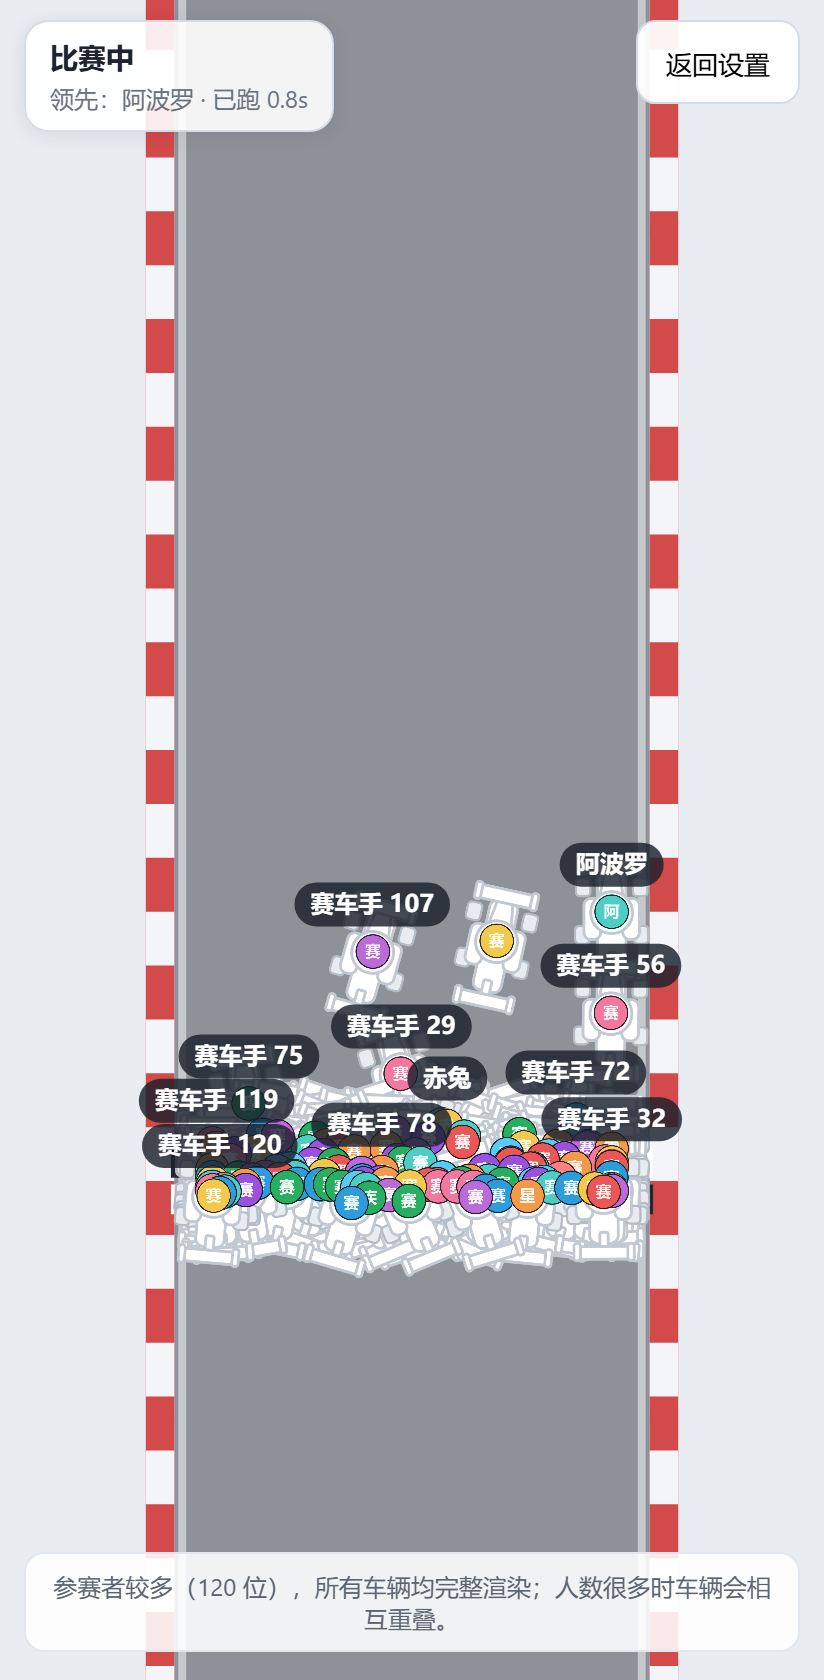
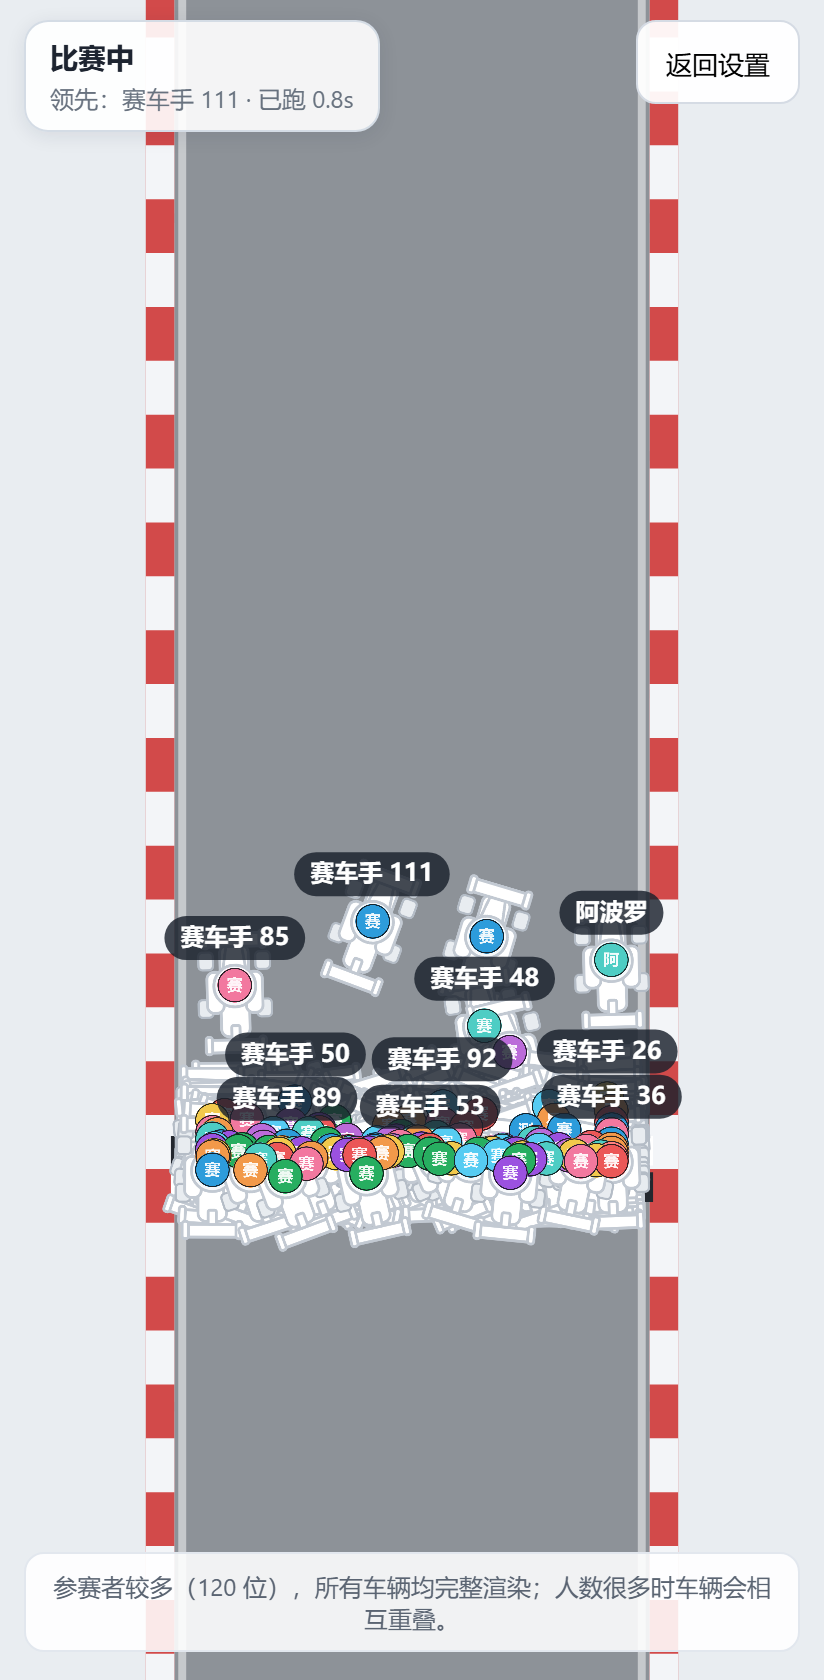
追赶机制：前几名减速、落后者随机冲刺冲上来

diff --git a/qa_catchup.js b/qa_catchup.js
@@ -1,0 +1,43 @@
+const { chromium } = require(process.env.PW_PATH);
+const URL = 'file:///C:/Users/Administrator/dragen%20dance/avatar-racing/index.html';
+function P(l,v){ console.log(l + ' ' + JSON.stringify(v)); }
+(async function(){
+  const browser = await chromium.launch();
+  const errors = [];
+  for (let run=1; run<=3; run++){
+    const page = await browser.newPage({ viewport:{ width:412, height:840 }, deviceScaleFactor:2 });
+    page.on('pageerror', function(e){ errors.push('pageerror: ' + e.message); });
+    page.on('console', function(m){ if(m.type()==='error') errors.push('console: ' + m.text()); });
+    await page.goto(URL);
+    await page.click('#sampleBtn');
+    await page.evaluate(function(){ for (var i=0;i<2;i++) document.getElementById('addBtn').click(); });
+    await page.click('#startBtn');
+    await page.waitForTimeout(4300);
+    let samples=0, swaps=0, prev=null, leads=0, lastLead=null;
+    const boostByRank = {};
+    const rankAt5 = {};
+    let t5done = false;
+    for (let i=0;i<200;i++){
+      const st = await page.evaluate(function(){ var r=window.__avatarRace.race; if(r.phase!=='racing'&&r.phase!=='waiting') return null; return { t:+r.elapsed.toFixed(1), order:r.ranked.map(function(c){return c.p.id;}), catchup:r.cars.map(function(c){return { id:c.p.id, cu:+(c.catchup||1).toFixed(3) }; }) }; });
+      if (!st){ if (samples>0) break; await page.waitForTimeout(200); continue; }
+      samples++;
+      const pos={}; st.order.forEach(function(id,ix){pos[id]=ix+1;});
+      if (prev){ for (const id in pos){ if (prev[id]!==undefined && prev[id]!==pos[id]) swaps++; } }
+      if (lastLead && st.order[0] !== lastLead) leads++;
+      lastLead = st.order[0]; prev = pos;
+      st.catchup.forEach(function(o){ boostByRank[pos[o.id]] = boostByRank[pos[o.id]] || { sum:0, n:0, max:0 }; const b=boostByRank[pos[o.id]]; b.sum+=o.cu; b.n++; if(o.cu>b.max) b.max=o.cu; });
+      if (!t5done && st.t >= 5){ t5done = true; st.order.forEach(function(id,ix){ rankAt5[id]=ix+1; }); }
+      await page.waitForTimeout(250);
+    }
+    const res = await page.evaluate(function(){ var r=window.__avatarRace.race; return { times: r.cars.map(function(c){return c.finishTime?+c.finishTime.toFixed(2):null;}), order: r.ranked.map(function(c){return c.p.id;}), names: r.cars.map(function(c){return { id:c.p.id, n:c.p.name }; }) }; });
+    const times = res.times.filter(function(x){return x;}).sort(function(a,b){return a-b;});
+    const nameOf = {}; res.names.forEach(function(o){ nameOf[o.id]=o.n; });
+    const winnerId = res.order[0];
+    const gained = Object.keys(rankAt5).filter(function(id){ const finalRank = res.order.indexOf(+id)+1; return rankAt5[id] - finalRank >= 3; }).length;
+    const avgByRank = Object.keys(boostByRank).sort(function(a,b){return a-b;}).map(function(k){ const b=boostByRank[k]; return k + ':' + (b.sum/b.n).toFixed(2); });
+    P('RUN'+run, { samples: samples, rankSwaps: swaps, swapsPerSec: +(swaps/(samples*0.25)).toFixed(1), leadChanges: leads, winner: nameOf[winnerId], winnerRankAt5s: rankAt5[winnerId] || null, carsGaining3Plus: gained, finishFirst: times[0], finishLast: times[times.length-1], spread: +(times[times.length-1]-times[0]).toFixed(2), avgCatchupByRank: avgByRank.join(' ') });
+    await page.close();
+  }
+  P('ERRORS', errors);
+  await browser.close();
+})().catch(function(e){ P('FATAL', e.message); process.exit(1); });

diff --git a/index.html b/index.html
@@ -578,7 +578,7 @@ function rankCars(cars){
   });
 }
 function createCars(track, rnd){
-  var baseSpeed = track.raceLen / 19.6;
+  var baseSpeed = track.raceLen / 18.2;
   var cars = participants.map(function(p){
     return {
       p: p, s: 0, v: 0, lateral: 0, yaw: 0, progress: 0,
@@ -591,6 +591,7 @@ function createCars(track, rnd){
       paceSeed2: rnd() * TAU,
       paceSeed3: rnd() * TAU,
       draft: 0, blocked: 0, follow: 1, gone: false, clear: true,
+      rank: 1, surgeTimer: 0, surgeCooldown: 1 + rnd()*4, surgePower: 0,
       lane: 0, baseLane: 0
     };
   });
@@ -615,7 +616,30 @@ function updateCar(c, dt, t, raceLen){
     var pace = 1 + 0.085*Math.sin(t*0.37 + c.paceSeed)
                  + 0.05*Math.sin(t*0.93 + c.paceSeed2)
                  + 0.035*Math.sin(t*0.21 + c.paceSeed3);
-    targetV = c.baseSpeed * pace * (1 + c.draft) * c.follow * (1 - 0.22 * c.blocked);
+    // ---- 追赶机制 ----
+    // 掉队的车获得追赶增益，并会随机触发冲刺；一旦进入前 3 名或咬住领先者，增益与冲刺立刻暂停。
+    var rank = c.rank || 1;
+    var total = race.cars.length;
+    var gap = Math.max(0, (race.leaderS || c.s) - c.s);
+    // 位置系数：第 1 名最慢（0.90），越靠后越快（最后一名 1.18）
+    var rf = total > 1 ? clamp((rank - 1) / (total - 1), 0, 1) : 0;
+    var posFactor = 0.90 + 0.28 * Math.pow(rf, 0.8);
+    // 真的掉队（落后领先者 400 单位以上）再额外给一点追赶增益
+    var gapBoost = clamp((gap - 400) / 900, 0, 1) * 0.12;
+    // 随机冲刺：只有掉出前 3 名才会触发，重新回到前 3 就暂停
+    if (c.surgeTimer > 0) c.surgeTimer -= dt;
+    c.surgeCooldown -= dt;
+    if (c.surgeTimer <= 0 && c.surgeCooldown <= 0){
+      if (Math.random() < 0.55){
+        c.surgeTimer = 1.2 + Math.random()*2.4;      // 冲刺持续 1.2~3.6s
+        c.surgePower = 0.05 + Math.random()*0.07;    // +5%~12%
+      }
+      c.surgeCooldown = 2.0 + Math.random()*4.5;
+    }
+    var surge = (c.surgeTimer > 0 && rank > 3) ? c.surgePower : 0;
+    var catchup = clamp(posFactor + gapBoost + surge, 0.80, 1.32);
+    c.catchup = catchup;
+    targetV = c.baseSpeed * pace * (1 + c.draft) * c.follow * (1 - 0.22 * c.blocked) * catchup;
   }
   if (targetV > 0) c.v += (targetV - c.v) * (1 - Math.exp(-c.accel*dt));
   else c.v = 0;
@@ -703,11 +727,14 @@ function updateRace(dt){
   race.elapsed += dt;
   var t = race.elapsed;
   try { interact(cars, dt); } catch (e0) {}
+  var lead0 = race.ranked && race.ranked[0];
+  race.leaderS = lead0 ? lead0.s : 0;
   for (var i=0;i<cars.length;i++){
     try { updateCar(cars[i], dt, t, raceLen); }
     catch (e) { cars[i].broken = true; }
   }
   race.ranked = rankCars(cars);
+  for (var r=0;r<race.ranked.length;r++) race.ranked[r].rank = r + 1;
 
   if (race.phase === 'racing'){
     var lead = race.ranked[0];
